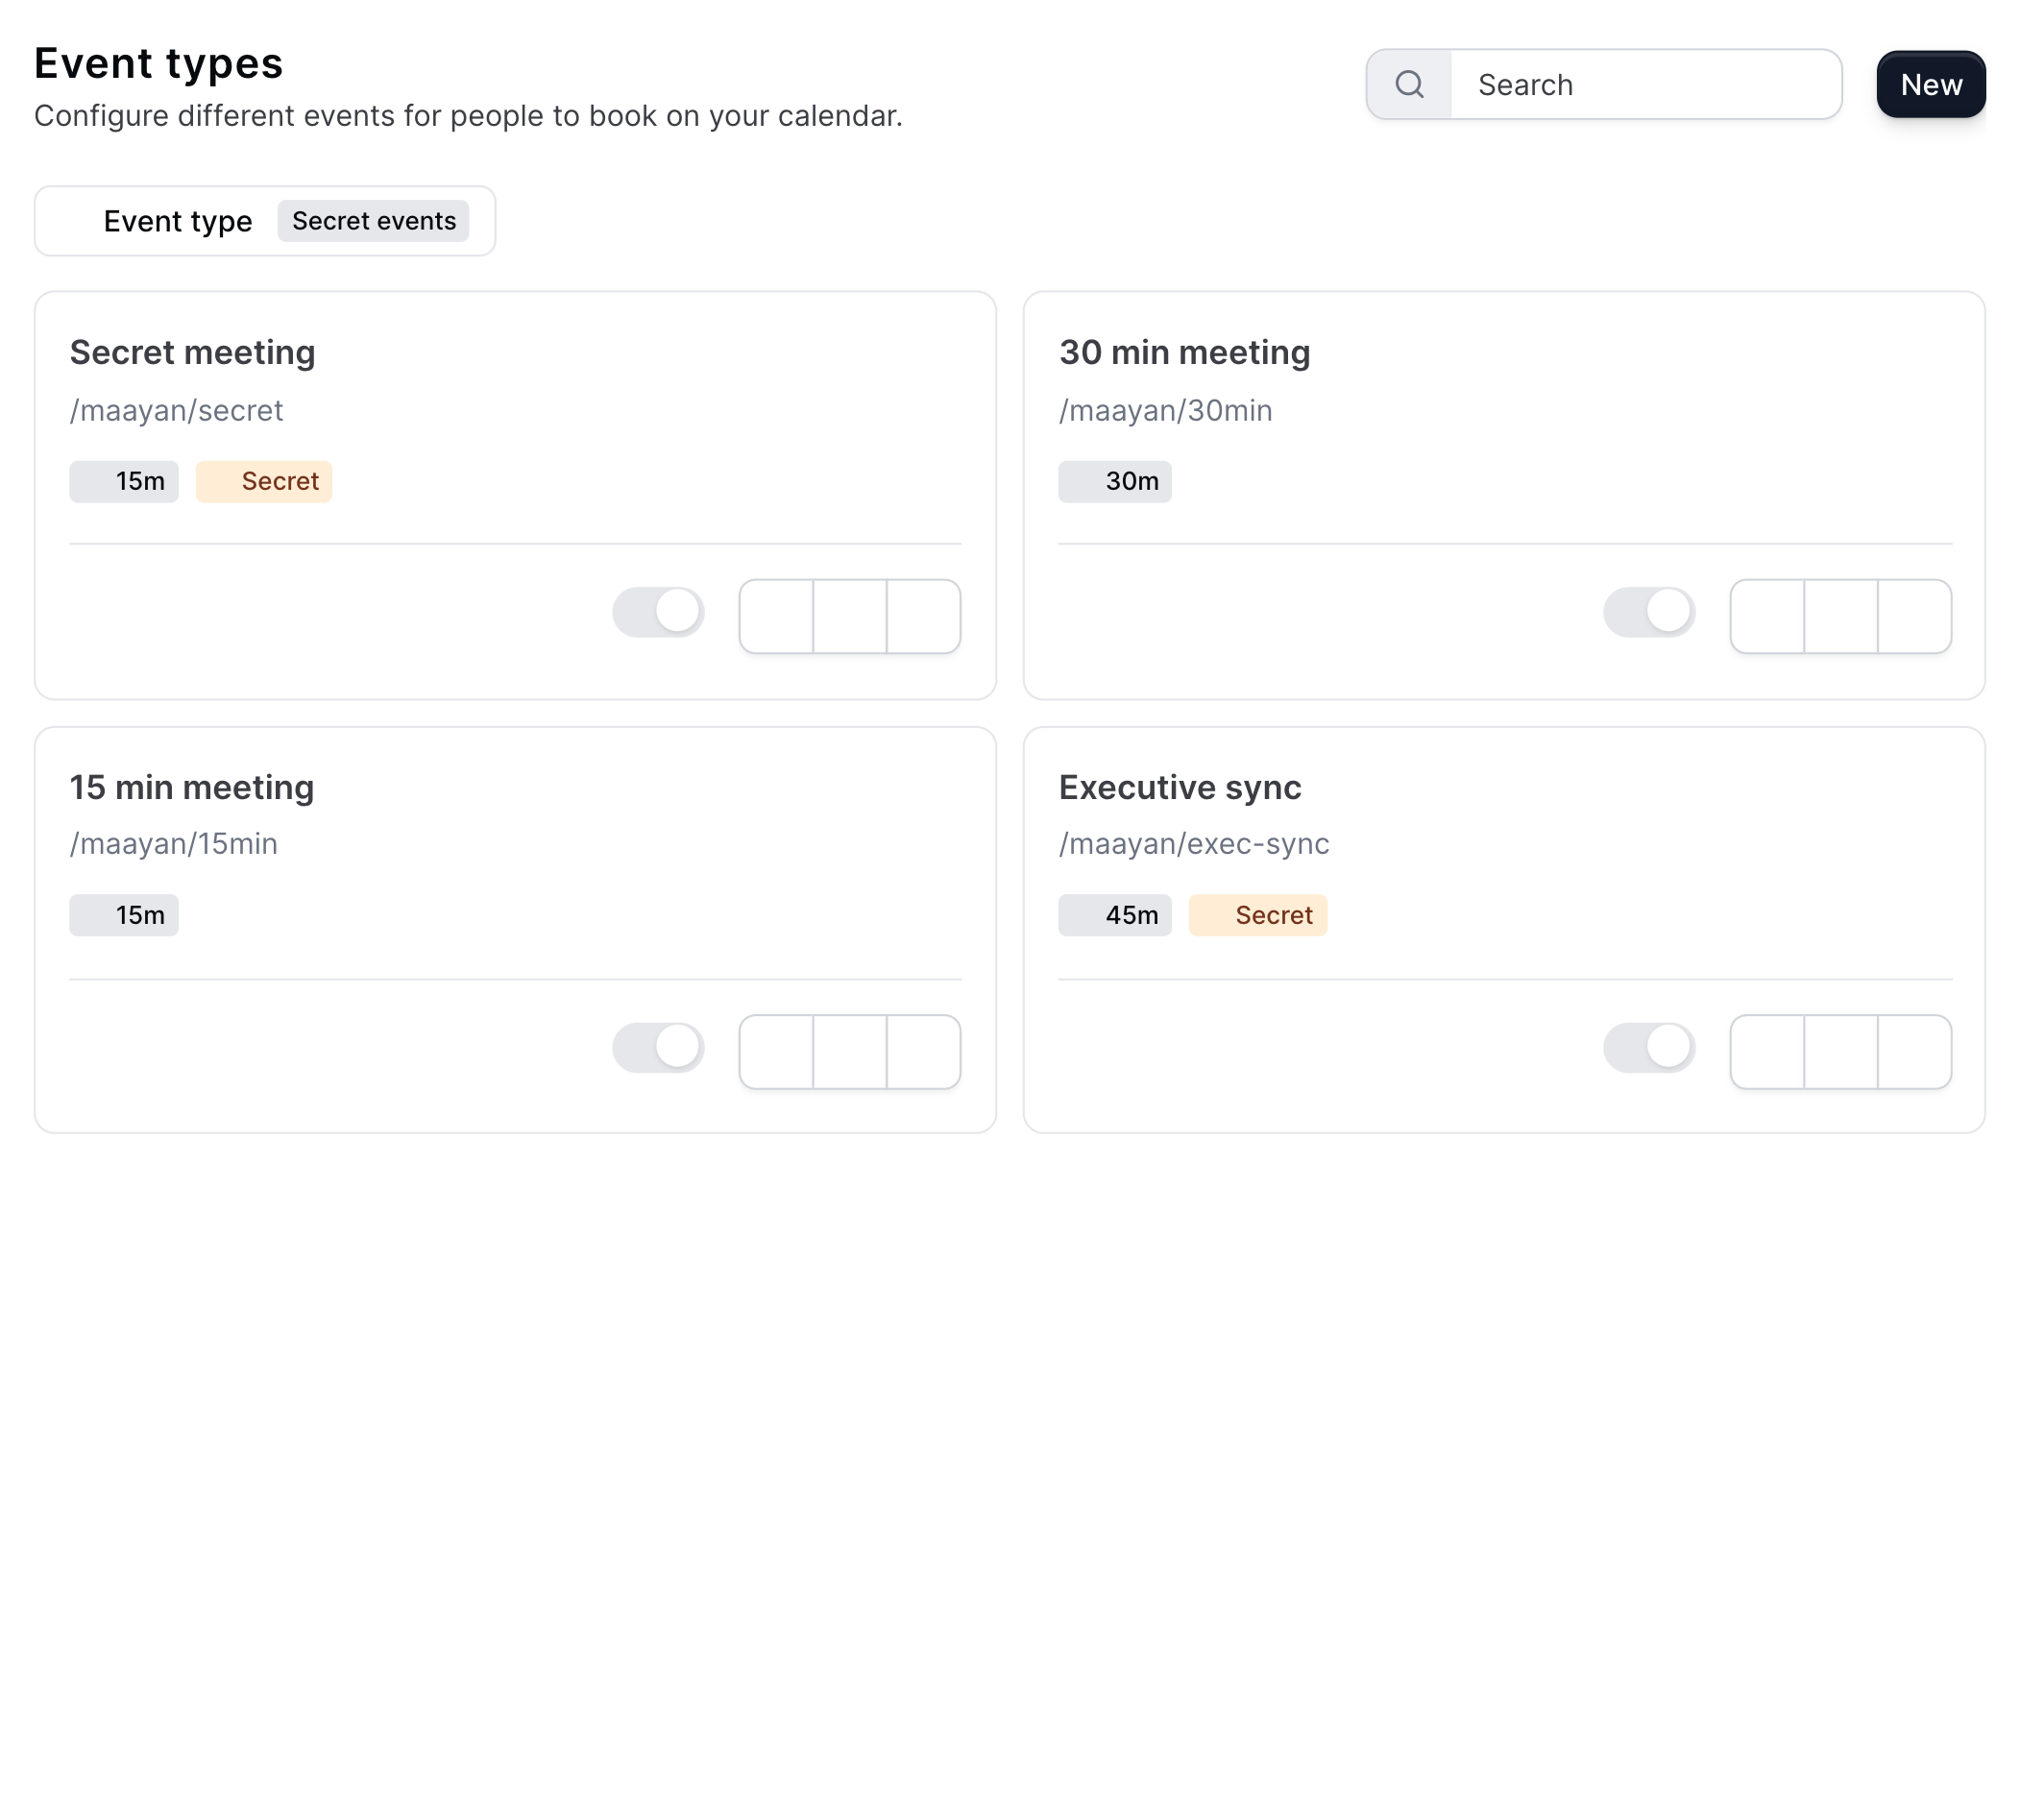
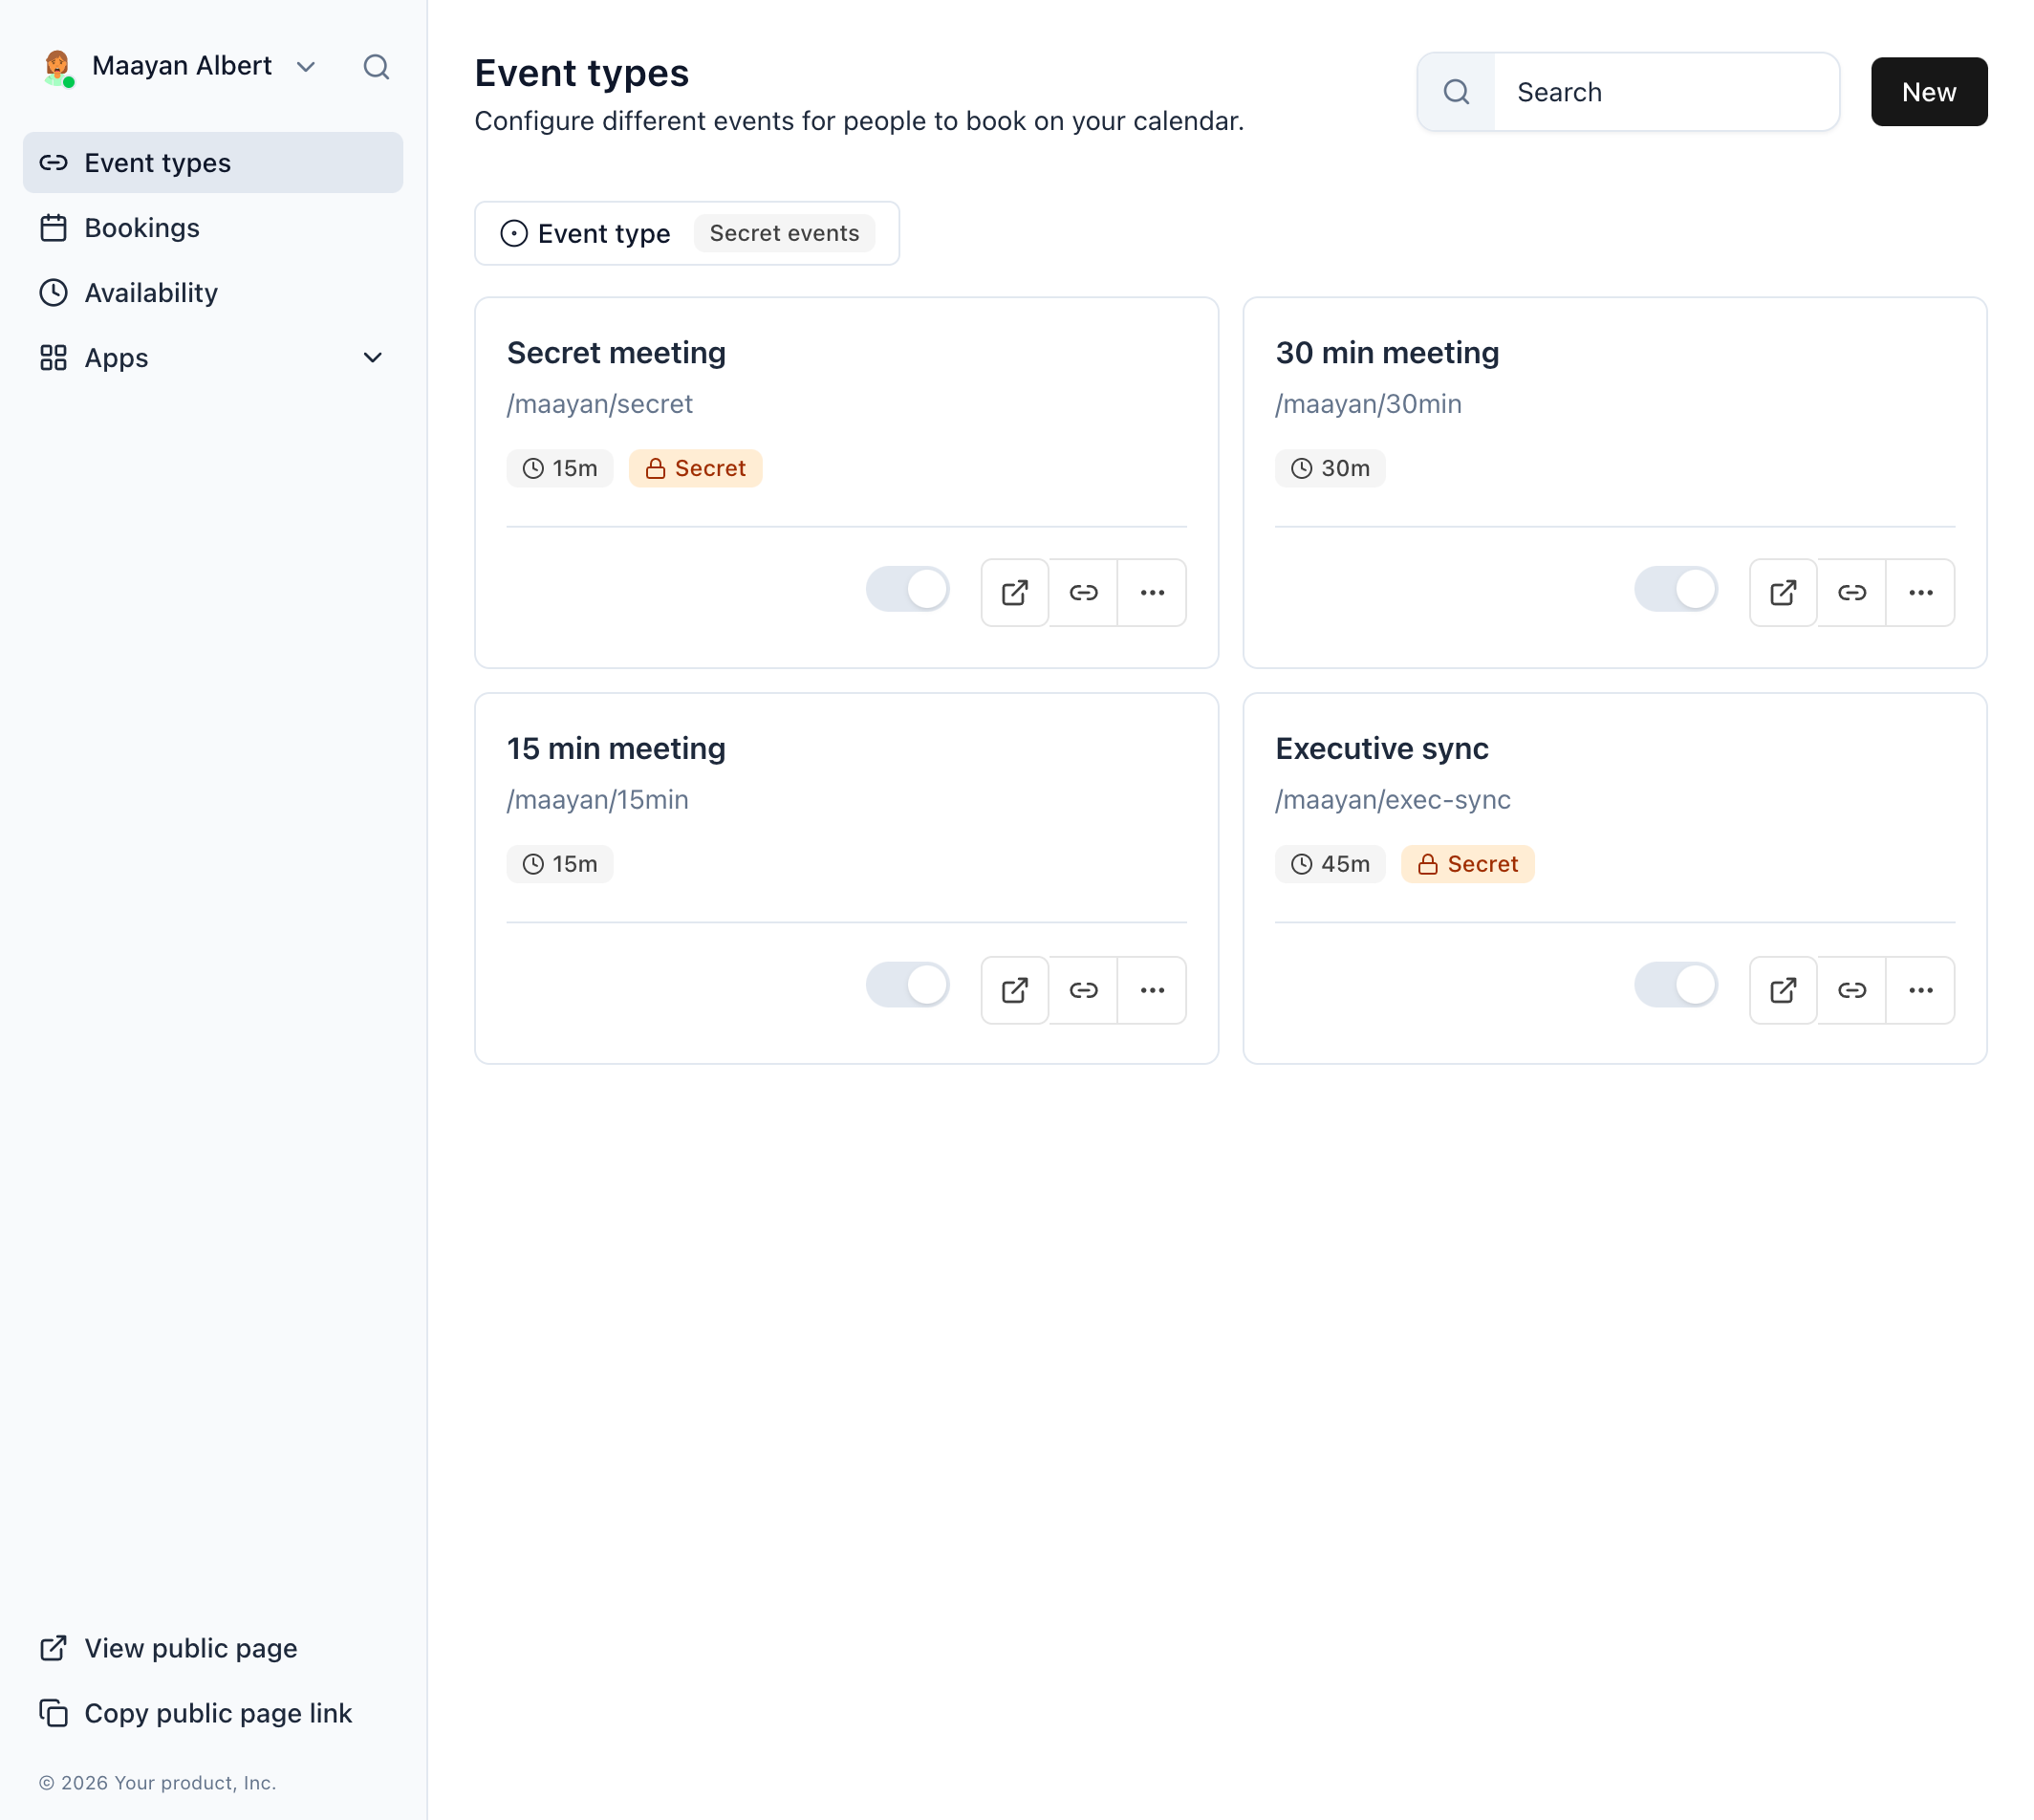
minor updates

diff --git a/README.md b/README.md
@@ -11,7 +11,7 @@ pnpm install
 pnpm dev
 ```
 
-Open [http://localhost:1985](http://localhost:1985).
+Open [http://localhost:1999](http://localhost:1999).
 
 ## proto-plugin dependency
 
@@ -33,7 +33,7 @@ See `node_modules/proto-plugin/README.md` and `AGENTS.md` for the full host setu
 
 | Command | Description |
 | --- | --- |
-| `pnpm dev` | Dev server on port **1985** |
+| `pnpm dev` | Dev server on port **1999** |
 | `pnpm verify:prototype-ids` | Check component id wiring |
 | `pnpm verify:prototype-preview-states` | Check preview state registries |
 | `pnpm share-prototype <slug>` | Deploy a prototype preview |